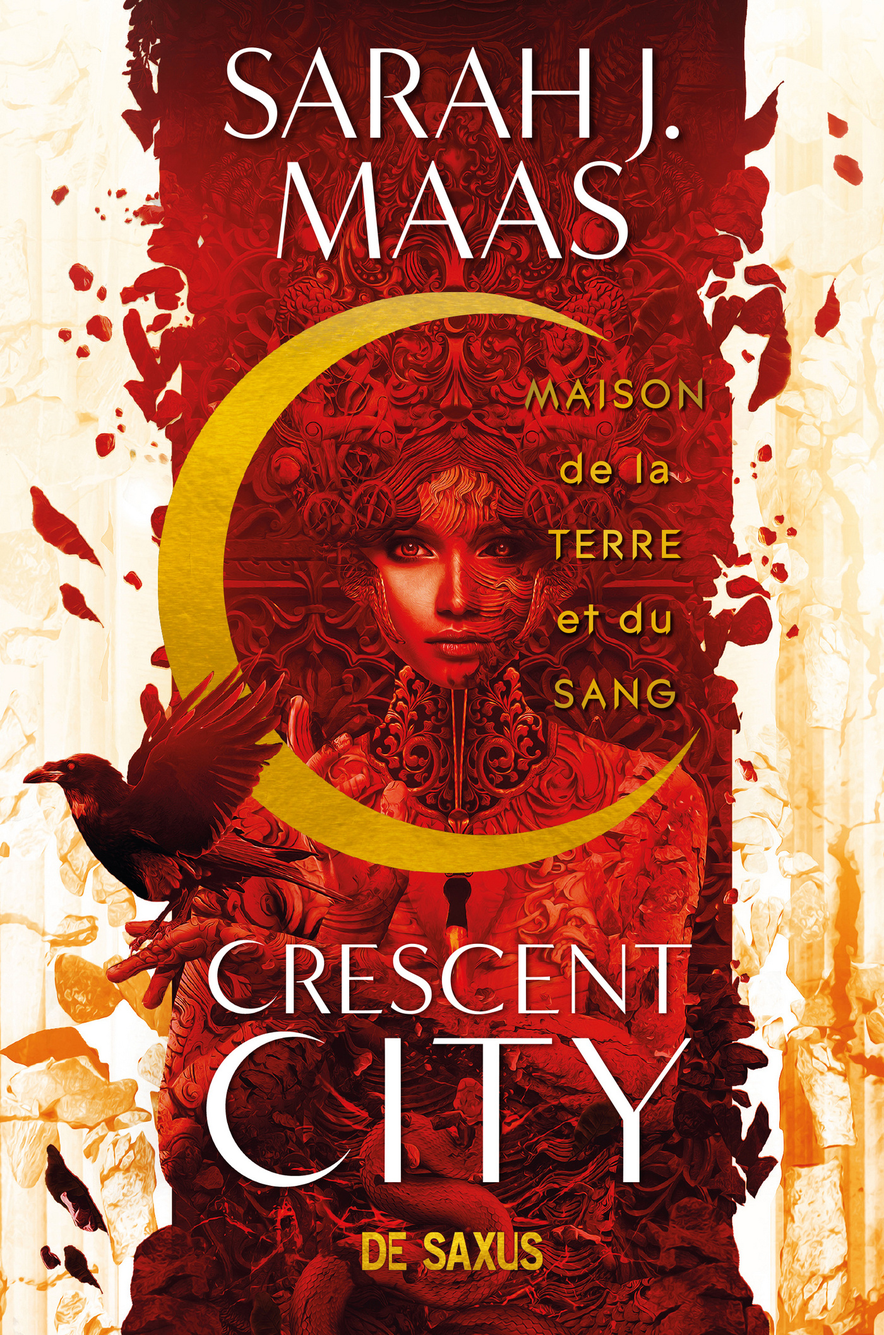
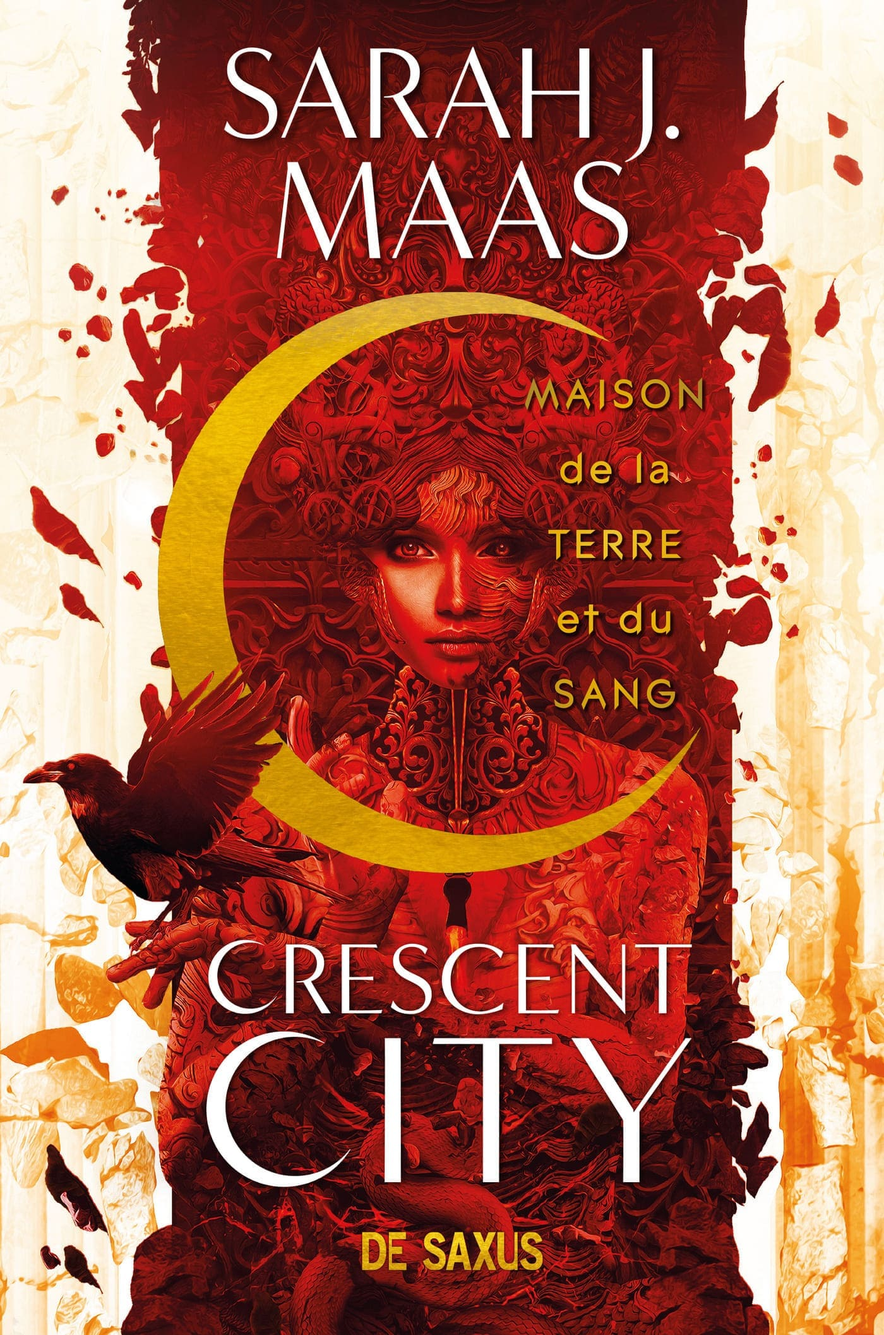
compression img et update navbar

diff --git a/index.html b/index.html
@@ -10,8 +10,9 @@
     </head>
     <body>
         <header>
-            <nav class="navDesktop">
-                <ul class="barreNav">
+            <!--Barre de navigation desktop-->
+            <nav>
+                <ul class="navDesktop">
                     <li><a href="index.html">Accueil</a></li>
                     <li class="nav-item dropdown">
                         <button class="btn btn-dark dropdown-toggle" data-bs-toggle="dropdown" aria-expanded="false">Univers</button>
@@ -27,14 +28,27 @@
                     <li><a href="pages/galerie.html">Galerie</a></li>
                 </ul>
             </nav>
+            <!--Barre de navigation mobile-->
             <nav class="navMobile">
-
+                <!--menu burger-->
+                <img src="assets/images/Icon/icons8-menu-BLANC.png" alt="icone menu" data-bs-toggle="collapse" data-bs-target="#collapse" height="50px" width="50px">
+                <div style="min-height: 120px;">
+                    <div class="collapse collapse-horizontal" id="collapseWidthExample">
+                        <div class="card card-body" style="width: 300px;">
+                        On met des liens
+                        </div>
+                    </div>
+                </div>
+                <a href="pages/galerie.html"><img src="assets/images/Icon/icons8-photos-BLANC.png" alt="icone galerie image" height="50px" width="50px"></a>
+                <a href="pages/contact.html"><img src="assets/images/Icon/icons8-adresse-BLANC.png" alt="icone localisation contact" height="50px" width="50px"></a>
+                <a href="index.html"><img src="assets/images/logoBlancSeulSVG.svg" alt="logo" height="50px" width="50px"></a>
             </nav>
         </header>
         <section class="hero">
-            <div>
+            <div class="imgContainer">
                 <img class="imgHero" src="assets/images/Banner Index.jpg" alt="Bibliothèque">
             </div>
+            <!--Carousel évenement avec bootstrap-->
             <div id="carouselExampleIndicators" class="carousel slide">
                 <div class="carousel-indicators">
                     <button type="button" data-bs-target="#carouselExampleIndicators" data-bs-slide-to="0" class="active" aria-current="true" aria-label="Slide 1"></button>

diff --git a/Assets/CSS/stylesheet.css b/Assets/CSS/stylesheet.css
@@ -1,8 +1,11 @@
-/* Index :
+/* Index
 Page index : 
+media queries : 
+Page fantasy : 
+
 */
 
-/*page index.html */
+/*page index.html : general */
 
 :root{
    --bleu-nuit: #000226;
@@ -13,7 +16,9 @@ Page index :
 
 @font-face {
     font-family: "Cormorant";
-    src: url("assets/fonts/CormorantGaramond-VariableFont_wght") format(woff2);
+    src: url("../fonts/CormorantGaramond-VariableFont_wght.woff2") format(woff2);
+    font-weight: normal;
+    font-style: normal;
 }
 
 body {
@@ -21,21 +26,52 @@ body {
     font-family: "Cormorant", 'Times New Roman', Times, serif;
 }
 
+/*Mobile*/
+@media screen and (max-width:576px){
+
+.navDesktop{
+    display: none;
+}
+
+}
+
+/* tablette*/
+@media screen and (min-width:577px) and (max-width:899px) {
+    
+}
+
 /* Header */
 
-.barreNav{
+.navMobile{
     display: flex;
     flex-direction: row;
     justify-content: space-around;
     background-color: var(--bleu-nuit);
 }
 
-.barreNav li{
+.navDesktop{
+    display: flex;
+    flex-direction: row;
+    justify-content: space-around;
+    background-color: var(--bleu-nuit);
+}
+
+.btn-dark{
+    background-color: var(--bleu-nuit);
+    border: none;
+}
+
+.navDesktop li{
     list-style: none;
 }
 
-.barreNav a{
+.navDesktop a{
     text-decoration: none;
     color: white;
-    justify-content: space-around;
+    vertical-align: middle;
+    padding-top: 7px;
+}
+
+.navLogo{
+    font-size: 140%;
 }
